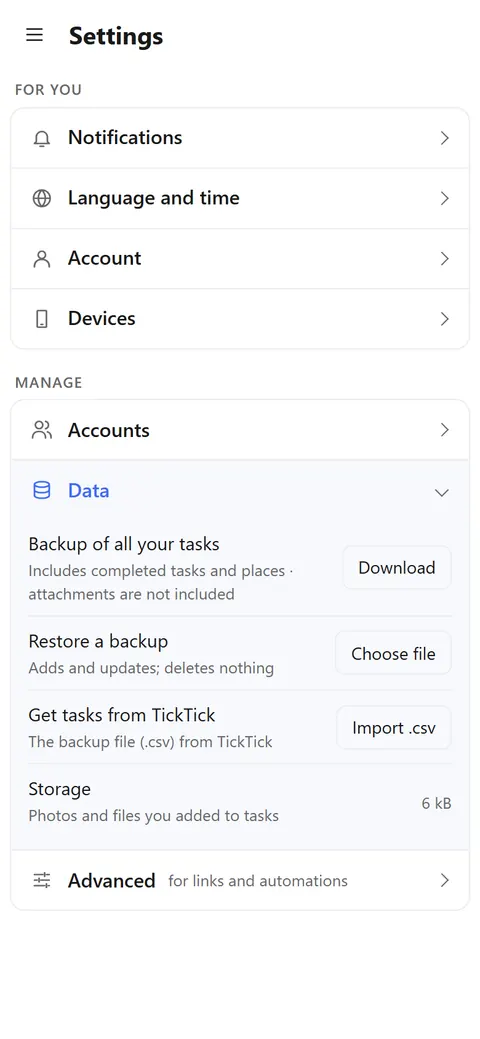
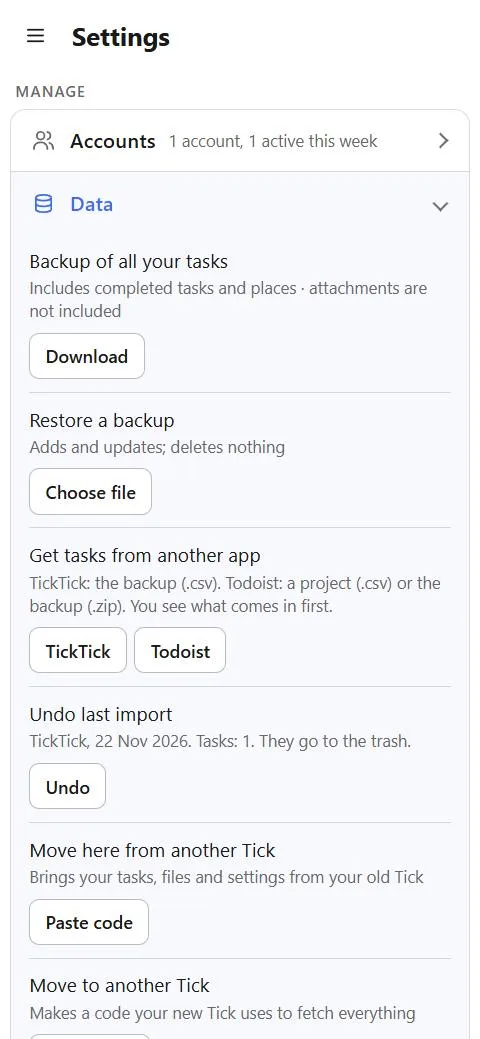
Website en Wat is er nieuw: importeren uit TickTick of Todoist (NL en EN)
- Tegel en verhaal #ticktick: TickTick of Todoist, eerst een voorbeeld, herhalingen en notities mee, prioriteit in de notitie, ongedaan maken.
- Tabelrij "Back-up en importeren"; nieuwe schermafbeeldingen van Instellingen › Gegevens.
- Wat is er nieuw (2026-11-23): overstappen vanuit Todoist of TickTick.
- Teksten bij ongedaan maken zonder "1 taken".
- whatsnew-test: zinnen met `when` controleren in de versies die in beeld zijn, niet in een vaste oude versie.

diff --git a/site/public/en/index.html b/site/public/en/index.html
@@ -546,19 +546,17 @@
 </details>
 
 <details class="feat" id="ticktick" name="features">
-<summary class="tile"><span class="tile-h"><h3 data-edit="en-functie-ticktick-titel" data-edit-label="Functie Importeren uit TickTick: tegeltitel (Engels)"><span class="emoji" aria-hidden="true">📦</span>Moving from TickTick</h3></span><span class="tile-line" data-edit="en-functie-ticktick-regel" data-edit-label="Functie Importeren uit TickTick: regel op de tegel (Engels)">Bring your tasks along.</span><span class="more"><span class="lm">Read more</span><span class="cl">Close</span></span></summary>
-<div class="story"><div class="story-h"><p class="story-title" data-edit="en-functie-ticktick-kop" data-edit-label="Functie Importeren uit TickTick: kop van het verhaal (Engels)">Import from TickTick</p><a class="story-anchor" href="#ticktick">#ticktick</a></div><figure class="story-shot"><img src="/img/app/en-set-data.webp" width="480" height="1039" loading="lazy" decoding="async" alt="Settings › Data: download a backup, restore a backup and get tasks from TickTick."></figure><div class="story-b" data-edit="en-functie-ticktick-verhaal" data-edit-label="Functie Importeren uit TickTick: verhaal (Engels)">
-<p>Coming from TickTick? Make a backup there. That gives you a CSV file. In Tick, go to <strong>Settings › Data</strong> and pick the file at <em>Get tasks from TickTick</em>.</p>
-<p>Tick adds your tasks and shows how many were new, how many were already there and how many were skipped. Import the same file again and Tick skips what's already there and keeps your changes.</p>
-<p>The due date of an open task becomes your reminder; an all-day one lands at your default time. Overdue tasks come in without a pile of notifications. Repeats don't come along; Tick tells you how many tasks had one.</p>
-<p>The file can be up to 10 MB.</p>
-<p>Moving from another app? I haven't built that yet. TickTick was the app I used myself.</p>
+<summary class="tile"><span class="tile-h"><h3 data-edit="en-functie-ticktick-titel" data-edit-label="Functie Importeren uit TickTick: tegeltitel (Engels)"><span class="emoji" aria-hidden="true">📦</span>Moving from TickTick or Todoist</h3></span><span class="tile-line" data-edit="en-functie-ticktick-regel" data-edit-label="Functie Importeren uit TickTick: regel op de tegel (Engels)">Bring your tasks along.</span><span class="more"><span class="lm">Read more</span><span class="cl">Close</span></span></summary>
+<div class="story"><div class="story-h"><p class="story-title" data-edit="en-functie-ticktick-kop" data-edit-label="Functie Importeren uit TickTick: kop van het verhaal (Engels)">Import from TickTick or Todoist</p><a class="story-anchor" href="#ticktick">#ticktick</a></div><figure class="story-shot"><img src="/img/app/en-set-data.webp" width="480" height="1039" loading="lazy" decoding="async" alt="Settings › Data: download a backup, restore a backup and get tasks from another app, with buttons for TickTick and Todoist."></figure><div class="story-b" data-edit="en-functie-ticktick-verhaal" data-edit-label="Functie Importeren uit TickTick: verhaal (Engels)">
+<p>Coming from TickTick or Todoist? Make an export there: in TickTick a backup (.csv), in Todoist a project (.csv) or the full backup (.zip). In Tick, go to <strong>Settings › Data</strong> and pick the app.</p>
+<p>You see what comes in first: how many tasks, which lists, and what can't come along. Only when you tap <em>Import</em> does Tick add them.</p>
+<p>Repeats and notes come along. Priority becomes a line in the note, and high priority is pinned. Changed your mind? <em>Undo last import</em> moves everything to the trash in one go.</p>
 </div></div>
 </details>
 
 <details class="feat" id="backup" name="features">
 <summary class="tile"><span class="tile-h"><h3 data-edit="en-functie-back-up-titel" data-edit-label="Functie Back-up: tegeltitel (Engels)"><span class="emoji" aria-hidden="true">💾</span>Backup</h3></span><span class="tile-line" data-edit="en-functie-back-up-regel" data-edit-label="Functie Back-up: regel op de tegel (Engels)">Download all your tasks in one file.</span><span class="more"><span class="lm">Read more</span><span class="cl">Close</span></span></summary>
-<div class="story"><div class="story-h"><p class="story-title" data-edit="en-functie-back-up-kop" data-edit-label="Functie Back-up: kop van het verhaal (Engels)">Backup</p><a class="story-anchor" href="#backup">#backup</a></div><figure class="story-shot"><img src="/img/app/en-set-data.webp" width="480" height="1039" loading="lazy" decoding="async" alt="Settings › Data: download a backup, restore a backup and get tasks from TickTick."></figure><div class="story-b" data-edit="en-functie-back-up-verhaal" data-edit-label="Functie Back-up: verhaal (Engels)">
+<div class="story"><div class="story-h"><p class="story-title" data-edit="en-functie-back-up-kop" data-edit-label="Functie Back-up: kop van het verhaal (Engels)">Backup</p><a class="story-anchor" href="#backup">#backup</a></div><figure class="story-shot"><img src="/img/app/en-set-data.webp" width="480" height="1039" loading="lazy" decoding="async" alt="Settings › Data: download a backup, restore a backup and get tasks from another app, with buttons for TickTick and Todoist."></figure><div class="story-b" data-edit="en-functie-back-up-verhaal" data-edit-label="Functie Back-up: verhaal (Engels)">
 <p>Under <strong>Settings › Data</strong> you download a backup of all your tasks. Completed tasks and places are included. Your settings, keys, tasks others shared with you and the files of attachments are not.</p>
 <p>With <strong>Restore a backup</strong> you put such a file back. Tick first shows what's in it. Then it merges by task: tasks in the file replace the same task here, and deleted ones come back. Nothing is deleted.</p>
 <p>A backup is also your way out. Your tasks are yours, and you take them with you if you want.</p>
@@ -658,7 +656,7 @@
 </tbody>
 <tbody>
 <tr class="grp"><th scope="colgroup" colspan="4" data-edit="en-www-groep-5" data-edit-label="Tabel: groep Je gegevens en de rest (Engels)"><span>Your data and the rest</span></th></tr>
-<tr><th scope="row" data-edit="en-www-back-up-en-ticktick" data-edit-label="Tabel: rijnaam Back-up en TickTick-import (Engels)">Backup and TickTick import</th><td data-edit="en-www-back-up-en-ticktick-webapp" data-edit-label="Tabel: Back-up en TickTick-import, Webapp (Engels)"><span class="y"><span class="sr-only">yes</span></span></td><td data-edit="en-www-back-up-en-ticktick-play" data-edit-label="Tabel: Back-up en TickTick-import, Android Play (Engels)"><span class="y"><span class="sr-only">yes</span></span></td><td data-edit="en-www-back-up-en-ticktick-iphone" data-edit-label="Tabel: Back-up en TickTick-import, iPhone (Engels)"><span class="y"><span class="sr-only">yes</span></span></td></tr>
+<tr><th scope="row" data-edit="en-www-back-up-en-ticktick" data-edit-label="Tabel: rijnaam Back-up en TickTick-import (Engels)">Backup and importing</th><td data-edit="en-www-back-up-en-ticktick-webapp" data-edit-label="Tabel: Back-up en TickTick-import, Webapp (Engels)"><span class="y"><span class="sr-only">yes</span></span></td><td data-edit="en-www-back-up-en-ticktick-play" data-edit-label="Tabel: Back-up en TickTick-import, Android Play (Engels)"><span class="y"><span class="sr-only">yes</span></span></td><td data-edit="en-www-back-up-en-ticktick-iphone" data-edit-label="Tabel: Back-up en TickTick-import, iPhone (Engels)"><span class="y"><span class="sr-only">yes</span></span></td></tr>
 <tr><th scope="row" data-edit="en-www-thema-s-taal-en-tijdzone" data-edit-label="Tabel: rijnaam Thema's, taal en tijdzone (Engels)">Themes, language and time zone</th><td data-edit="en-www-thema-s-taal-en-tijdzone-webapp" data-edit-label="Tabel: Thema's, taal en tijdzone, Webapp (Engels)"><span class="y"><span class="sr-only">yes</span></span></td><td data-edit="en-www-thema-s-taal-en-tijdzone-play" data-edit-label="Tabel: Thema's, taal en tijdzone, Android Play (Engels)"><span class="y"><span class="sr-only">yes</span></span></td><td data-edit="en-www-thema-s-taal-en-tijdzone-iphone" data-edit-label="Tabel: Thema's, taal en tijdzone, iPhone (Engels)"><span class="y"><span class="sr-only">yes</span></span></td></tr>
 <tr><th scope="row" data-edit="en-www-claude-mcp-inbox-api" data-edit-label="Tabel: rijnaam Claude (MCP), inbox-API, Home Assistant (Engels)">Claude (MCP), inbox API, Home Assistant</th><td data-edit="en-www-claude-mcp-inbox-api-webapp" data-edit-label="Tabel: Claude (MCP), inbox-API, Home Assistant, Webapp (Engels)"><span class="y"><span class="sr-only">yes</span></span></td><td data-edit="en-www-claude-mcp-inbox-api-play" data-edit-label="Tabel: Claude (MCP), inbox-API, Home Assistant, Android Play (Engels)"><span class="y"><span class="sr-only">yes</span></span></td><td data-edit="en-www-claude-mcp-inbox-api-iphone" data-edit-label="Tabel: Claude (MCP), inbox-API, Home Assistant, iPhone (Engels)"><span class="y"><span class="sr-only">yes</span></span></td></tr>
 <tr><th scope="row" data-edit="en-www-updates" data-edit-label="Tabel: rijnaam Updates (Engels)">Updates</th><td data-edit="en-www-updates-webapp" data-edit-label="Tabel: Updates, Webapp (Engels)">automatic</td><td data-edit="en-www-updates-play" data-edit-label="Tabel: Updates, Android Play (Engels)">through Google Play</td><td data-edit="en-www-updates-iphone" data-edit-label="Tabel: Updates, iPhone (Engels)">automatic</td></tr>

diff --git a/site/public/index.html b/site/public/index.html
@@ -542,19 +542,17 @@
 </details>
 
 <details class="feat" id="ticktick" name="functies">
-<summary class="tile"><span class="tile-h"><h3 data-edit="functie-ticktick-titel" data-edit-label="Functie Importeren uit TickTick: tegeltitel"><span class="emoji" aria-hidden="true">📦</span>Overstappen van TickTick</h3></span><span class="tile-line" data-edit="functie-ticktick-regel" data-edit-label="Functie Importeren uit TickTick: regel op de tegel">Neem je taken mee.</span><span class="more"><span class="lm">Lees meer</span><span class="cl">Sluiten</span></span></summary>
-<div class="story"><div class="story-h"><p class="story-title" data-edit="functie-ticktick-kop" data-edit-label="Functie Importeren uit TickTick: kop van het verhaal">Importeren uit TickTick</p><a class="story-anchor" href="#ticktick">#ticktick</a></div><figure class="story-shot"><img src="/img/app/nl-set-data.webp" width="480" height="1039" loading="lazy" decoding="async" alt="Instellingen › Gegevens: back-up downloaden, back-up terugzetten en taken uit TickTick halen."></figure><div class="story-b" data-edit="functie-ticktick-verhaal" data-edit-label="Functie Importeren uit TickTick: verhaal">
-<p>Kom je van TickTick? Maak daar een back-up. Dat geeft een CSV-bestand. In Tick ga je naar <strong>Instellingen › Gegevens</strong> en kies je het bestand bij <em>Taken uit TickTick halen</em>.</p>
-<p>Tick zet je taken erin en laat zien hoeveel er nieuw waren, hoeveel er al stonden en hoeveel er werden overgeslagen. Importeer je hetzelfde bestand nog een keer, dan slaat Tick over wat er al is en houdt het je wijzigingen.</p>
-<p>De vervaldatum van een open taak wordt je herinnering; een hele dag komt op je standaardtijd. Verlopen taken komen binnen zonder een stapel meldingen. Herhalingen komen niet mee; Tick zegt hoeveel taken er een hadden.</p>
-<p>Het bestand mag tot 10 MB zijn.</p>
-<p>Van een andere app overstappen? Dat heb ik nog niet gebouwd. TickTick was de app die ik zelf gebruikte.</p>
+<summary class="tile"><span class="tile-h"><h3 data-edit="functie-ticktick-titel" data-edit-label="Functie Importeren uit TickTick: tegeltitel"><span class="emoji" aria-hidden="true">📦</span>Overstappen van TickTick of Todoist</h3></span><span class="tile-line" data-edit="functie-ticktick-regel" data-edit-label="Functie Importeren uit TickTick: regel op de tegel">Neem je taken mee.</span><span class="more"><span class="lm">Lees meer</span><span class="cl">Sluiten</span></span></summary>
+<div class="story"><div class="story-h"><p class="story-title" data-edit="functie-ticktick-kop" data-edit-label="Functie Importeren uit TickTick: kop van het verhaal">Importeren uit TickTick of Todoist</p><a class="story-anchor" href="#ticktick">#ticktick</a></div><figure class="story-shot"><img src="/img/app/nl-set-data.webp" width="480" height="1039" loading="lazy" decoding="async" alt="Instellingen › Gegevens: back-up downloaden, back-up terugzetten en taken uit een andere app halen, met knoppen voor TickTick en Todoist."></figure><div class="story-b" data-edit="functie-ticktick-verhaal" data-edit-label="Functie Importeren uit TickTick: verhaal">
+<p>Kom je van TickTick of Todoist? Maak daar een export: bij TickTick een back-up (.csv), bij Todoist een project (.csv) of de hele back-up (.zip). In Tick ga je naar <strong>Instellingen › Gegevens</strong> en kies je de app.</p>
+<p>Je ziet eerst wat er binnenkomt: hoeveel taken, welke lijsten, en wat niet mee kan. Pas als je op <em>Importeren</em> tikt, zet Tick ze erin.</p>
+<p>Herhalingen en notities komen mee. Prioriteit wordt een regel in de notitie, en hoge prioriteit wordt vastgepind. Spijt? Met <em>Laatste import ongedaan maken</em> gaat alles in één keer naar de prullenbak.</p>
 </div></div>
 </details>
 
 <details class="feat" id="back-up" name="functies">
 <summary class="tile"><span class="tile-h"><h3 data-edit="functie-back-up-titel" data-edit-label="Functie Back-up: tegeltitel"><span class="emoji" aria-hidden="true">💾</span>Back-up</h3></span><span class="tile-line" data-edit="functie-back-up-regel" data-edit-label="Functie Back-up: regel op de tegel">Download al je taken in één bestand.</span><span class="more"><span class="lm">Lees meer</span><span class="cl">Sluiten</span></span></summary>
-<div class="story"><div class="story-h"><p class="story-title" data-edit="functie-back-up-kop" data-edit-label="Functie Back-up: kop van het verhaal">Back-up</p><a class="story-anchor" href="#back-up">#back-up</a></div><figure class="story-shot"><img src="/img/app/nl-set-data.webp" width="480" height="1039" loading="lazy" decoding="async" alt="Instellingen › Gegevens: back-up downloaden, back-up terugzetten en taken uit TickTick halen."></figure><div class="story-b" data-edit="functie-back-up-verhaal" data-edit-label="Functie Back-up: verhaal">
+<div class="story"><div class="story-h"><p class="story-title" data-edit="functie-back-up-kop" data-edit-label="Functie Back-up: kop van het verhaal">Back-up</p><a class="story-anchor" href="#back-up">#back-up</a></div><figure class="story-shot"><img src="/img/app/nl-set-data.webp" width="480" height="1039" loading="lazy" decoding="async" alt="Instellingen › Gegevens: back-up downloaden, back-up terugzetten en taken uit een andere app halen, met knoppen voor TickTick en Todoist."></figure><div class="story-b" data-edit="functie-back-up-verhaal" data-edit-label="Functie Back-up: verhaal">
 <p>Onder <strong>Instellingen › Gegevens</strong> download je een back-up van al je taken. Afgeronde taken en plekken zitten erin. Je instellingen, sleutels, taken die anderen met je deelden en de bestanden van bijlagen niet.</p>
 <p>Met <strong>Backup terugzetten</strong> zet je zo'n bestand weer terug. Tick laat eerst zien wat erin staat. Daarna voegt het samen per taak: taken uit het bestand vervangen dezelfde taak hier, en verwijderde taken komen terug. Er wordt niets gewist.</p>
 <p>Een back-up is ook je uitweg. Je taken zijn van jou, en je neemt ze mee als je wilt.</p>
@@ -654,7 +652,7 @@
 </tbody>
 <tbody>
 <tr class="grp"><th scope="colgroup" colspan="4" data-edit="www-groep-5" data-edit-label="Tabel: groep Je gegevens en de rest"><span>Je gegevens en de rest</span></th></tr>
-<tr><th scope="row" data-edit="www-back-up-en-ticktick" data-edit-label="Tabel: rijnaam Back-up en TickTick-import">Back-up en TickTick-import</th><td data-edit="www-back-up-en-ticktick-webapp" data-edit-label="Tabel: Back-up en TickTick-import, Webapp"><span class="y"><span class="sr-only">ja</span></span></td><td data-edit="www-back-up-en-ticktick-play" data-edit-label="Tabel: Back-up en TickTick-import, Android Play"><span class="y"><span class="sr-only">ja</span></span></td><td data-edit="www-back-up-en-ticktick-iphone" data-edit-label="Tabel: Back-up en TickTick-import, iPhone"><span class="y"><span class="sr-only">ja</span></span></td></tr>
+<tr><th scope="row" data-edit="www-back-up-en-ticktick" data-edit-label="Tabel: rijnaam Back-up en TickTick-import">Back-up en importeren</th><td data-edit="www-back-up-en-ticktick-webapp" data-edit-label="Tabel: Back-up en TickTick-import, Webapp"><span class="y"><span class="sr-only">ja</span></span></td><td data-edit="www-back-up-en-ticktick-play" data-edit-label="Tabel: Back-up en TickTick-import, Android Play"><span class="y"><span class="sr-only">ja</span></span></td><td data-edit="www-back-up-en-ticktick-iphone" data-edit-label="Tabel: Back-up en TickTick-import, iPhone"><span class="y"><span class="sr-only">ja</span></span></td></tr>
 <tr><th scope="row" data-edit="www-thema-s-taal-en-tijdzone" data-edit-label="Tabel: rijnaam Thema's, taal en tijdzone">Thema's, taal en tijdzone</th><td data-edit="www-thema-s-taal-en-tijdzone-webapp" data-edit-label="Tabel: Thema's, taal en tijdzone, Webapp"><span class="y"><span class="sr-only">ja</span></span></td><td data-edit="www-thema-s-taal-en-tijdzone-play" data-edit-label="Tabel: Thema's, taal en tijdzone, Android Play"><span class="y"><span class="sr-only">ja</span></span></td><td data-edit="www-thema-s-taal-en-tijdzone-iphone" data-edit-label="Tabel: Thema's, taal en tijdzone, iPhone"><span class="y"><span class="sr-only">ja</span></span></td></tr>
 <tr><th scope="row" data-edit="www-claude-mcp-inbox-api" data-edit-label="Tabel: rijnaam Claude (MCP), inbox-API, Home Assistant">Claude (MCP), inbox-API, Home Assistant</th><td data-edit="www-claude-mcp-inbox-api-webapp" data-edit-label="Tabel: Claude (MCP), inbox-API, Home Assistant, Webapp"><span class="y"><span class="sr-only">ja</span></span></td><td data-edit="www-claude-mcp-inbox-api-play" data-edit-label="Tabel: Claude (MCP), inbox-API, Home Assistant, Android Play"><span class="y"><span class="sr-only">ja</span></span></td><td data-edit="www-claude-mcp-inbox-api-iphone" data-edit-label="Tabel: Claude (MCP), inbox-API, Home Assistant, iPhone"><span class="y"><span class="sr-only">ja</span></span></td></tr>
 <tr><th scope="row" data-edit="www-updates" data-edit-label="Tabel: rijnaam Updates">Updates</th><td data-edit="www-updates-webapp" data-edit-label="Tabel: Updates, Webapp">vanzelf</td><td data-edit="www-updates-play" data-edit-label="Tabel: Updates, Android Play">via Google Play</td><td data-edit="www-updates-iphone" data-edit-label="Tabel: Updates, iPhone">vanzelf</td></tr>

diff --git a/public/i18n.js b/public/i18n.js
@@ -543,6 +543,7 @@ export const STRINGS = {
     'news.20261122.welcome': 'New accounts get a welcome task that explains Tick in eight small steps.',
     'news.20261122.pushbar': 'Notifications off? A bar at the top helps you turn them on.',
     'news.20261122.help': 'Help now also explains places and sharing; reminders at a place work through the Android app.',
+    'news.20261123.import': 'Moving from Todoist or TickTick: Settings → Data. You see what comes in first (now with repeats and priority), and you can undo the import in one go.',
     'news.20261120.quickdate': 'Type a date or time in your task, like "tomorrow 9am", and Tick sets the reminder.',
     'news.20261120.testpush': 'The "Test notification" button turns notifications on first and explains what to do if your phone blocks them.',
     'news.20261120.security': 'Linking, inviting and sharing are better protected.',
@@ -1221,7 +1222,7 @@ export const STRINGS = {
     'set.import_ticktick': 'TickTick',
     'set.import_todoist': 'Todoist',
     'set.import_undo': 'Undo last import',
-    'set.import_undo_note': '{app}, {date}: {count} tasks. They go to the trash.',
+    'set.import_undo_note': '{app}, {date}. Tasks: {count}. They go to the trash.',
     'set.import_undo_button': 'Undo',
     'import.preview_title': 'From {app} to Tick',
     'import.preview_intro': 'This is what comes in. Nothing is saved until you tap Import.',
@@ -1246,8 +1247,8 @@ export const STRINGS = {
     'import.done': 'Imported: {added} new, {existing} already there',
     'import.failed': 'Importing failed: {reason}',
     'import.undo_title': 'Undo the import?',
-    'import.undo_text': 'The {count} tasks from this import ({app}, {date}) go to the trash. You can bring them back from there.',
-    'import.undo_done': 'Moved to the trash: {count} tasks',
+    'import.undo_text': 'All tasks from this import ({app}, {date}; tasks: {count}) go to the trash. You can bring them back from there.',
+    'import.undo_done': 'Tasks moved to the trash: {count}',
     'import.priority_line': 'Priority: {level}',
     'import.priority_high': 'high',
     'import.priority_medium': 'medium',
@@ -1932,6 +1933,7 @@ export const STRINGS = {
     'news.20261122.welcome': 'Nieuwe accounts krijgen een welkomsttaak die Tick in acht stapjes uitlegt.',
     'news.20261122.pushbar': 'Staan je meldingen uit? Een balk bovenin helpt je ze aan te zetten.',
     'news.20261122.help': 'In Help staat nu ook uitleg over plekken en over delen; meldingen op een plek werken via de Android-app.',
+    'news.20261123.import': 'Overstappen vanuit Todoist of TickTick: Instellingen → Gegevens. Je ziet eerst wat er binnenkomt (nu met herhalingen en prioriteit), en je kunt de import in één keer ongedaan maken.',
     'news.20261120.quickdate': 'Typ een datum of tijd in je taak, zoals "morgen 9 uur", en Tick zet de herinnering.',
     'news.20261120.testpush': 'De knop "Testmelding" zet meldingen eerst aan en legt uit wat je moet doen als je telefoon ze blokkeert.',
     'news.20261120.security': 'Koppelen, uitnodigen en delen zijn beter beveiligd.',
@@ -2610,7 +2612,7 @@ export const STRINGS = {
     'set.import_ticktick': 'TickTick',
     'set.import_todoist': 'Todoist',
     'set.import_undo': 'Laatste import ongedaan maken',
-    'set.import_undo_note': '{app}, {date}: {count} taken. Ze gaan naar de prullenbak.',
+    'set.import_undo_note': '{app}, {date}. Taken: {count}. Ze gaan naar de prullenbak.',
     'set.import_undo_button': 'Ongedaan maken',
     'import.preview_title': 'Van {app} naar Tick',
     'import.preview_intro': 'Dit komt er binnen. Er wordt niets bewaard tot je op Importeren tikt.',
@@ -2635,8 +2637,8 @@ export const STRINGS = {
     'import.done': 'Geïmporteerd: {added} nieuw, {existing} al aanwezig',
     'import.failed': 'Importeren mislukt: {reason}',
     'import.undo_title': 'Import ongedaan maken?',
-    'import.undo_text': 'De {count} taken van deze import ({app}, {date}) gaan naar de prullenbak. Daar kun je ze terugzetten.',
-    'import.undo_done': 'Naar de prullenbak: {count} taken',
+    'import.undo_text': 'Alle taken van deze import ({app}, {date}; taken: {count}) gaan naar de prullenbak. Daar kun je ze terugzetten.',
+    'import.undo_done': 'Taken naar de prullenbak: {count}',
     'import.priority_line': 'Prioriteit: {level}',
     'import.priority_high': 'hoog',
     'import.priority_medium': 'middel',

diff --git a/test/whatsnew.test.ts b/test/whatsnew.test.ts
@@ -30,8 +30,13 @@ describe('Wat is er nieuw: de lijst (public/news.js)', () => {
   it('een zin met `when` alleen waar die functie aan staat; hooguit SHOWN versies', () => {
     const off = visibleNews({ calendarFeeds: false }).flatMap((v) => v.items);
     const on = visibleNews({ calendarFeeds: true }).flatMap((v) => v.items);
-    expect(off).not.toContain('news.20261112.clash');
-    expect(on).toContain('news.20261112.clash');
+    // De zinnen met `when` in de versies die nu in beeld zijn: alleen waar de functie aan staat.
+    const conditional = NEWS.slice(0, SHOWN).flatMap((v) => v.items).filter((i) => typeof i !== 'string').map((i) => (i as { key: string }).key);
+    for (const key of conditional) {
+      expect(off).not.toContain(key);
+      expect(on).toContain(key);
+    }
+    expect(off.length + conditional.length).toBe(on.length);
     expect(visibleNews({}).length).toBeLessThanOrEqual(SHOWN);
   });
 

diff --git a/public/news.js b/public/news.js
@@ -8,6 +8,7 @@
 
 /** Nieuwste eerst; hooguit MAX_ITEMS zinnen per versie (test/whatsnew.test.ts controleert dat). @type {{ date: string, items: NewsItem[] }[]} */
 export const NEWS = [
+  { date: '2026-11-23', items: ['news.20261123.import'] },
   { date: '2026-11-22', items: ['news.20261122.whatsnew', 'news.20261122.welcome', 'news.20261122.pushbar', 'news.20261122.help'] },
   { date: '2026-11-20', items: ['news.20261120.quickdate', 'news.20261120.testpush', 'news.20261120.security', 'news.20261120.android'] },
   { date: '2026-11-19', items: ['news.20261119.repeat', 'news.20261119.repeat_end', 'news.20261119.share3'] },

diff --git a/docs/superpowers/specs/2026-11-09-website-copy.md b/docs/superpowers/specs/2026-11-09-website-copy.md
@@ -425,19 +425,15 @@ Wie je geblokkeerd hebt, staat onder **Instellingen › Account › Geblokkeerde
 
 Op een Tick die je zelf host voor je huishouden bestaan deze knoppen niet. Daar ken je elkaar.
 
-### Importeren uit TickTick
+### Importeren uit TickTick of Todoist
 - **Anker:** `#ticktick`
-- **Tegel:** Overstappen van TickTick · Neem je taken mee.
+- **Tegel:** Overstappen van TickTick of Todoist · Neem je taken mee.
 - **Lees meer:**
-Kom je van TickTick? Maak daar een back-up. Dat geeft een CSV-bestand. In Tick ga je naar **Instellingen › Data** en kies je het bestand bij *Taken uit TickTick halen*.
+Kom je van TickTick of Todoist? Maak daar een export: bij TickTick een back-up (.csv), bij Todoist een project (.csv) of de hele back-up (.zip). In Tick ga je naar **Instellingen › Gegevens** en kies je de app.
 
-Tick zet je taken erin en laat zien hoeveel er nieuw waren, hoeveel er al stonden en hoeveel er werden overgeslagen. Importeer je hetzelfde bestand nog een keer, dan slaat Tick over wat er al is en houdt het je wijzigingen.
+Je ziet eerst wat er binnenkomt: hoeveel taken, welke lijsten, en wat niet mee kan. Pas als je op *Importeren* tikt, zet Tick ze erin.
 
-De vervaldatum van een open taak wordt je herinnering; een hele dag komt op je standaardtijd. Verlopen taken komen binnen zonder een stapel meldingen. Herhalingen komen niet mee; Tick zegt hoeveel taken er een hadden.
-
-Het bestand mag tot 10 MB zijn.
-
-Van een andere app overstappen? Dat heb ik nog niet gebouwd. TickTick was de app die ik zelf gebruikte.
+Herhalingen en notities komen mee. Prioriteit wordt een regel in de notitie, en hoge prioriteit wordt vastgepind. Spijt? Met *Laatste import ongedaan maken* gaat alles in één keer naar de prullenbak.
 
 ### Back-up
 - **Anker:** `#back-up`
@@ -525,7 +521,7 @@ Kolommen:
 | Melden en blokkeren | ✓ | ✓ | ✓ op app.ticktodo.nl | ✓ | — (alleen op een open Tick) | <!-- reporting.md "On a Tick for your own household these buttons don't exist" -->
 | Tickmanager | ✓ | ✓ | ✓ | ✓ | ✓ | <!-- tickmanager.md -->
 | Foto's en bestanden | ✓ (100 MB per account) | ✓ | ✓ | ✓ | als je ze aanzet | <!-- tasks-and-lists.md "Attachments (optional)"; 100 MB = MAX_ACCOUNT_MB op app.ticktodo.nl (beheernotitie, niet in docs) -->
-| Back-up en TickTick-import | ✓ | ✓ | ✓ | ✓ | ✓ | <!-- settings.md "Data"; in de apps via het instellingenscherm van de webapp -->
+| Back-up en importeren | ✓ | ✓ | ✓ | ✓ | ✓ | <!-- settings.md "Data"; in de apps via het instellingenscherm van de webapp -->
 | Thema's, taal en tijdzone | ✓ | ✓ | ✓ | ✓ | ✓ | <!-- settings.md -->
 | Claude (MCP), inbox-API, Home Assistant | ✓ | ✓ | ✓ | ✓ | ✓ | <!-- integrations.md; werkt via de server met een sleutel, niet via een app. Zie twijfels over app.ticktodo.nl -->
 | Updates | vanzelf | via Google Play | app meldt een nieuwe versie | vanzelf | zelf bijwerken (*"update Tick"* in Claude Code) | <!-- android.md "Getting it"; iphone.md "It updates itself"; README "Updating later" -->
@@ -624,8 +620,8 @@ Ja. De code staat op GitHub (DioVayne/tick), onder de MIT-licentie. Je zet het o
 **Wat als Dio ermee stopt?**
 Dan hoor je dat minstens 30 dagen van tevoren, zodat je je taken kunt downloaden. En omdat Tick open source is, verdwijnt het niet: je kunt het zelf hosten, of iemand anders doet het. Ik ben het overigens niet van plan. Ik gebruik het zelf elke dag.
 
-**Kan ik over van TickTick?**
-Ja. Maak in TickTick een back-up (CSV) en importeer die onder **Instellingen › Data**. Vervaldatums worden herinneringen; herhalingen komen niet mee.
+**Kan ik over van TickTick of Todoist?**
+Ja. Maak een export in je oude app en kies in Tick **Instellingen › Gegevens › Taken uit een andere app halen**. Je ziet eerst wat er binnenkomt. Lijsten, subtaken, notities, datums en de meeste herhalingen komen mee; een hoge prioriteit wordt een vastgezette taak. Bevalt het niet? Met **Ongedaan maken** haal je de hele import in één keer weg.
 
 **Is mijn gegevens kwijt als mijn telefoon stuk gaat?**
 Nee. Je taken staan op de server en op je apparaten. Log in op een nieuw apparaat en alles is er weer.
@@ -1055,19 +1051,15 @@ The people you blocked are under **Settings › Account › Blocked people**. Yo
 
 On a Tick you host yourself for your household, these buttons don't exist. There you know each other.
 
-### Import from TickTick
+### Import from TickTick or Todoist
 - **Anchor:** `#ticktick`
-- **Tile:** Moving from TickTick · Bring your tasks along.
+- **Tile:** Moving from TickTick or Todoist · Bring your tasks along.
 - **Read more:**
-Coming from TickTick? Make a backup there. That gives you a CSV file. In Tick, go to **Settings › Data** and pick the file at *Get tasks from TickTick*.
+Coming from TickTick or Todoist? Make an export there: in TickTick a backup (.csv), in Todoist a project (.csv) or the full backup (.zip). In Tick, go to **Settings › Data** and pick the app.
 
-Tick adds your tasks and shows how many were new, how many were already there and how many were skipped. Import the same file again and Tick skips what's already there and keeps your changes.
+You see what comes in first: how many tasks, which lists, and what can't come along. Only when you tap *Import* does Tick add them.
 
-The due date of an open task becomes your reminder; an all-day one lands at your default time. Overdue tasks come in without a pile of notifications. Repeats don't come along; Tick tells you how many tasks had one.
-
-The file can be up to 10 MB.
-
-Moving from another app? I haven't built that yet. TickTick was the app I used myself.
+Repeats and notes come along. Priority becomes a line in the note, and high priority is pinned. Changed your mind? *Undo last import* moves everything to the trash in one go.
 
 ### Backup
 - **Anchor:** `#backup`
@@ -1157,7 +1149,7 @@ Columns:
 | Reporting and blocking | ✓ | ✓ | ✓ at app.ticktodo.nl | ✓ | — (only on an open Tick) |
 | Tickmanager | ✓ | ✓ | ✓ | ✓ | ✓ |
 | Photos and files | ✓ (100 MB per account) | ✓ | ✓ | ✓ | if you turn them on |
-| Backup and TickTick import | ✓ | ✓ | ✓ | ✓ | ✓ |
+| Backup and importing | ✓ | ✓ | ✓ | ✓ | ✓ |
 | Themes, language and time zone | ✓ | ✓ | ✓ | ✓ | ✓ |
 | Claude (MCP), inbox API, Home Assistant | ✓ | ✓ | ✓ | ✓ | ✓ |
 | Updates | automatic | through Google Play | the app tells you about a new version | automatic | update it yourself (*"update Tick"* in Claude Code) |
@@ -1256,8 +1248,8 @@ Yes. The code is on GitHub (DioVayne/tick), under the MIT licence. You put it on
 **What if Dio stops?**
 Then you'll hear at least 30 days in advance, so you can download your tasks. And because Tick is open source, it doesn't disappear: you can host it yourself, or someone else does. I'm not planning to, by the way. I use it every day.
 
-**Can I move from TickTick?**
-Yes. Make a backup (CSV) in TickTick and import it under **Settings › Data**. Due dates become reminders; repeats don't come along.
+**Can I move from TickTick or Todoist?**
+Yes. Make an export in your old app and choose **Settings › Data › Get tasks from another app** in Tick. You see what comes in first. Lists, subtasks, notes, dates and most repeats come along; a high priority becomes a pinned task. Not happy? **Undo** removes the whole import in one go.
 
 **Do I lose my data if my phone breaks?**
 No. Your tasks are on the server and on your devices. Log in on a new device and everything is back.
